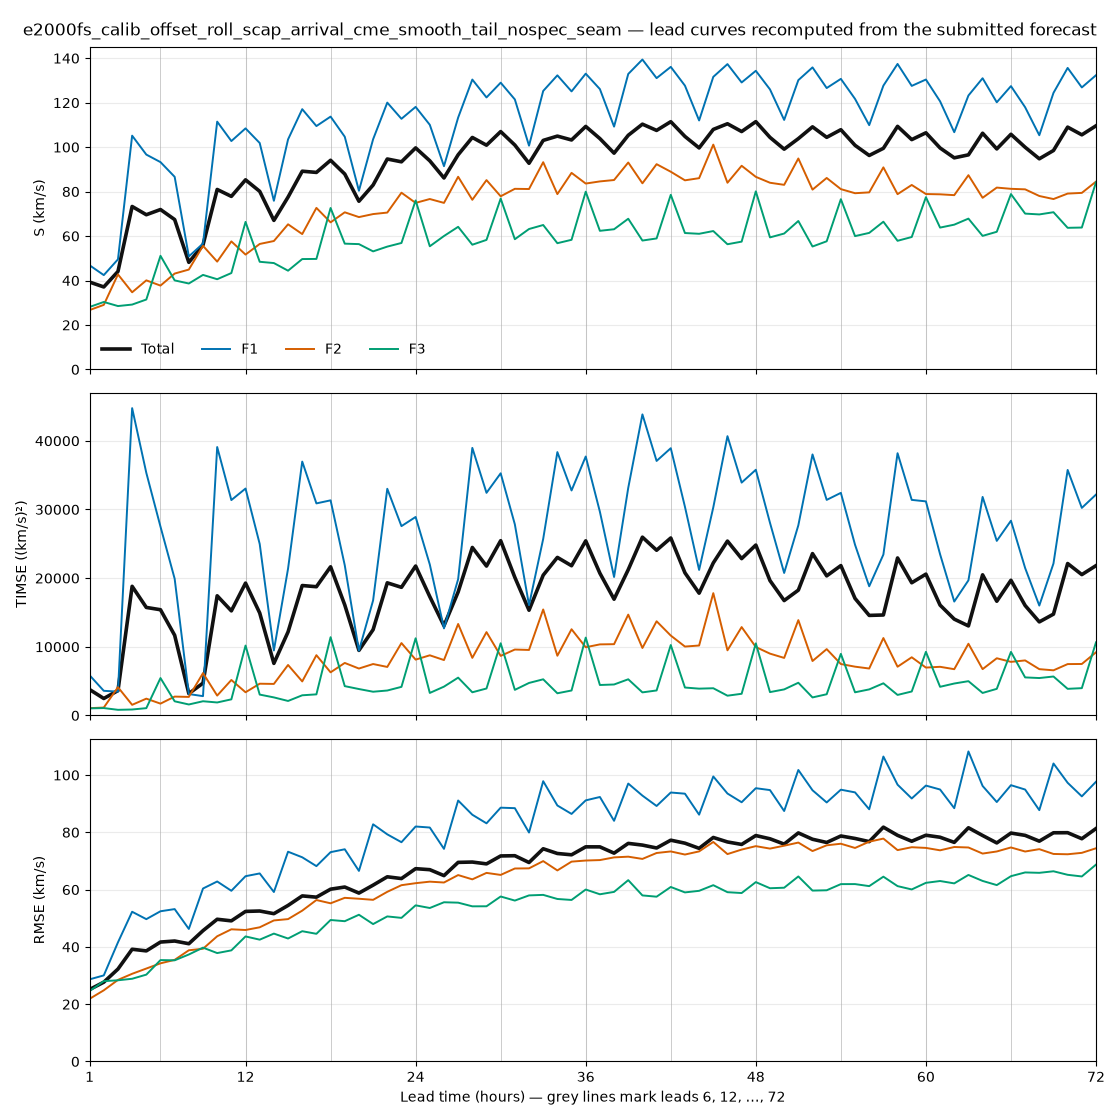
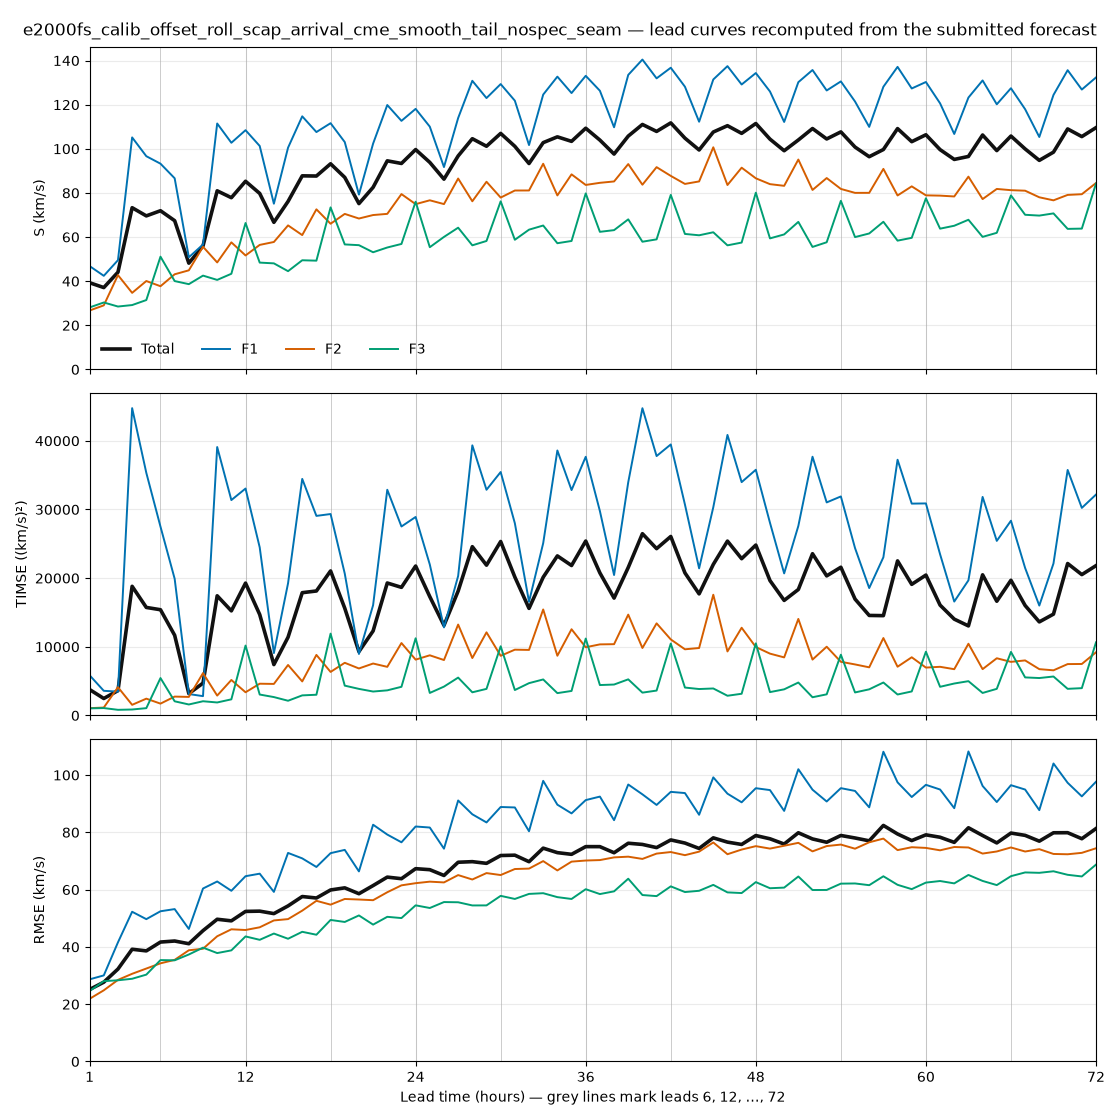
research: e2000fs_calib_offset_roll_scap_arrival_cme_smooth_tail_nospec_seam v2 submission visualization

diff --git a/research/e2000fs_calib_offset_roll_scap_arrival_cme_smooth_tail_nospec_seam/visualization/README.md b/research/e2000fs_calib_offset_roll_scap_arrival_cme_smooth_tail_nospec_seam/visualization/README.md
@@ -1,23 +1,23 @@
 # e2000fs_calib_offset_roll_scap_arrival_cme_smooth_tail_nospec_seam — lead 곡선 · F1–F3 월별 예측 GIF
 
-작성자 **seongeun**의 `e2000fs_calib_offset_roll_scap_arrival_cme_smooth_tail_nospec_seam`입니다(제출 `20261118T043451683Z`). Total S **93.42**입니다.
+작성자 **seongeun**의 `e2000fs_calib_offset_roll_scap_arrival_cme_smooth_tail_nospec_seam`입니다(제출 `20261118T073059412Z`). Total S **93.37**입니다.
 
-이 페이지는 리더보드 dataset에 저장된 **제출 예측 자체**를 리더보드 채점기(`leaderboard/scorer/competition.py`, `lead-timse-6h-v1`)로 다시 채점해 그렸습니다. 관측은 기록이 채점된 dataset revision `f30de18f9b`의 `competition-observations.parquet`입니다. Total/F1/F2/F3의 S·TIMSE·RMSE·tRMSE·bias가 저장 기록과 **1e-9 이내로 같을 때만** 그림을 그립니다([manifest.json](manifest.json)). 재학습이나 후처리는 하지 않았습니다.
+이 페이지는 리더보드 dataset에 저장된 **제출 예측 자체**를 리더보드 채점기(`leaderboard/scorer/competition.py`, `lead-timse-6h-v1`)로 다시 채점해 그렸습니다. 관측은 기록이 채점된 dataset revision `98a8443b54`의 `competition-observations.parquet`입니다. Total/F1/F2/F3의 S·TIMSE·RMSE·tRMSE·bias가 저장 기록과 **1e-9 이내로 같을 때만** 그림을 그립니다([manifest.json](manifest.json)). 재학습이나 후처리는 하지 않았습니다.
 
 | 구간 | S | TIMSE | RMSE | tRMSE | bias | 채점 origin | 유효 pair | persistence 대체 |
 | --- | ---: | ---: | ---: | ---: | ---: | ---: | ---: | ---: |
-| **Total** | 93.42 | 17,724.7 | 67.18 | 130.82 | +17.8 | 1,052 | 52,619 | 0.00% |
-| F1 (2026-01..03) | 113.62 | 26,757.0 | 82.03 | 159.48 | +21.0 | 348 | 17,674 | 0.00% |
-| F2 (2026-04..06) | 74.12 | 8,087.4 | 63.09 | 87.53 | +15.8 | 352 | 17,473 | 0.00% |
-| F3 (2026-07..09) | 58.84 | 4,564.2 | 54.03 | 64.89 | +16.6 | 352 | 17,472 | 0.00% |
+| **Total** | 93.37 | 17,672.5 | 67.22 | 130.60 | +17.8 | 1,052 | 52,619 | 0.00% |
+| F1 (2026-01..03) | 113.52 | 26,616.2 | 82.12 | 159.02 | +21.0 | 348 | 17,674 | 0.00% |
+| F2 (2026-04..06) | 74.08 | 8,081.7 | 63.03 | 87.53 | +15.8 | 352 | 17,473 | 0.00% |
+| F3 (2026-07..09) | 58.88 | 4,565.6 | 54.11 | 64.90 | +16.6 | 352 | 17,472 | 0.00% |
 
 단위는 km/s(TIMSE는 (km/s)²)입니다. 채점 origin은 00/06/12/18 UTC이고, 정답은 ACE status 0 관측을 채우지 않고 씁니다. 그래서 1,052 × 72 = 75,744 pair 중 69.5%만 유효합니다.
 
 ## 제출 설명 (제출자 작성, 원문)
 
-> smooth_tail_nospec row plus block-seam smoothing, no retraining. The 3x24-lead block forecast jumps about 10x at h24|25 and h48|49; nine fixed seam transforms (moving average ma1-6, linear jump taper xf3/6/12) were pre-registered and one is chosen per period on the training-internal calibration window (F1 xf12, F2 xf6, F3 xf12). Applied to each seed, fixed mean of seeds 42/43/44. Mean3 S improves 0.221%, all seeds and periods better, below the 1% gate. Published by explicit user request; no baseline promotion.
+> smooth_tail_nospec row plus block-seam smoothing xf8, no retraining. The 3x24-lead block forecast jumps about 10x at h24|25 and h48|49; xf8 removes the jump beyond the local slope half from each side with a linear taper over 8 leads, on every seed and period, then the fixed mean of seeds 42/43/44. k = 8 was chosen from a leaderboard sweep of xf1-xf24 on explicit user request, so the score is LB-tuned. Mean3 S improves 0.274%, all seeds and periods better, below the 1% gate; no baseline promotion.
 
-- 모델 정의 코드: [architecture](https://github.com/TLAB-HGU/sunrun-leaderboard/blob/4bc76188baebc8bc51fa4f63746b5badda568666/research/e2000fs_calib_offset_roll_scap_arrival_cme_smooth_tail_nospec_seam/experiment.py)
+- 모델 정의 코드: [architecture](https://github.com/TLAB-HGU/sunrun-leaderboard/blob/abfc9787c36e09e118037b4856a9c8194c54e725/research/e2000fs_calib_offset_roll_scap_arrival_cme_smooth_tail_nospec_seam/experiment.py)
 - 학습 데이터 종료: F1 2025-12-29T00:00:00Z, F2 2026-03-29T00:00:00Z, F3 2026-06-29T00:00:00Z
 
 ## Lead 곡선
@@ -26,7 +26,7 @@
 
 리더보드 lead curves 열과 같은 값을 이 페이지에서 직접 다시 채점해 그렸습니다([lead_metrics.csv](lead_metrics.csv), lead를 6으로 나눈 나머지별 평균은 [lead_residue.csv](lead_residue.csv)).
 
-F3 TIMSE는 lead 6의 배수(6, 12, …, 72)에서 평균 **9,918.0**이고, 그 밖의 lead에서는 2,912.7–4,048.8입니다. 채점 origin이 00/06/12/18 UTC라서, lead 6·k의 목표 시각도 00/06/12/18 UTC에만 놓입니다. F3에서 가장 빠른 관측 두 개(743.4 km/s, 2026-09-15 18:00 UTC · 690.0 km/s, 2026-07-23 18:00 UTC)도 이 시각에 있어서, lead 6·k의 정답 모집단에만 들어갑니다. 두 관측을 정답에서 빼고 다시 계산하면(점수가 아닌 진단값) F3 lead 6·k TIMSE는 **4,556.4**입니다.
+F3 TIMSE는 lead 6의 배수(6, 12, …, 72)에서 평균 **9,922.8**이고, 그 밖의 lead에서는 2,918.7–4,060.9입니다. 채점 origin이 00/06/12/18 UTC라서, lead 6·k의 목표 시각도 00/06/12/18 UTC에만 놓입니다. F3에서 가장 빠른 관측 두 개(743.4 km/s, 2026-09-15 18:00 UTC · 690.0 km/s, 2026-07-23 18:00 UTC)도 이 시각에 있어서, lead 6·k의 정답 모집단에만 들어갑니다. 두 관측을 정답에서 빼고 다시 계산하면(점수가 아닌 진단값) F3 lead 6·k TIMSE는 **4,560.8**입니다.
 
 ## 월별 예측 GIF
 
@@ -48,7 +48,7 @@ GIF 한 장의 프레임은 채점 origin 하나입니다. 각 프레임은 orig
 
 ```bash
 /home/t-lab01/sunrun/.venv/bin/python tools/submission_viz.py --member seongeun \
-    --experiment e2000fs_calib_offset_roll_scap_arrival_cme_smooth_tail_nospec_seam --submitted-utc 20261118T043451683Z --out research/e2000fs_calib_offset_roll_scap_arrival_cme_smooth_tail_nospec_seam/visualization
+    --experiment e2000fs_calib_offset_roll_scap_arrival_cme_smooth_tail_nospec_seam --submitted-utc 20261118T073059412Z --out research/e2000fs_calib_offset_roll_scap_arrival_cme_smooth_tail_nospec_seam/visualization
 ```
 
 CPU만 씁니다. 입력은 리더보드 dataset `tlabtlab/sunrun-lb-store`에 저장된 이 제출의 결과 기록·예측 parquet과 `competition-observations.parquet`뿐입니다. [leaderboard-result.json](leaderboard-result.json)은 저장 기록에서 제출 키와 그 키를 담은 URL을 뺀 사본입니다.
